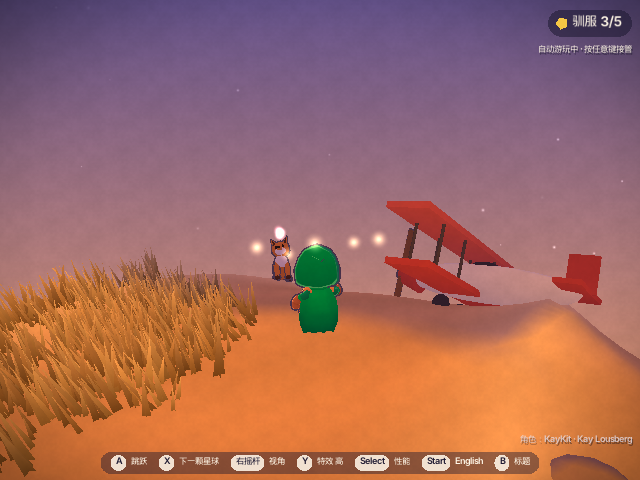
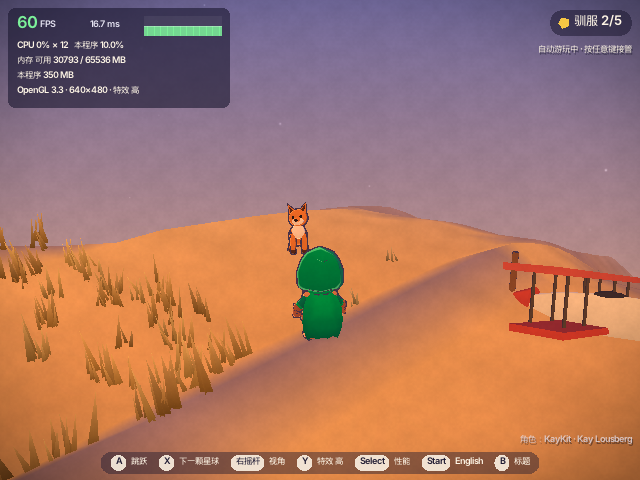
docs: Add the game design and update the README and screenshots for the bigger planets

diff --git a/README.md b/README.md
@@ -1,6 +1,6 @@
 # The Little Prince · 小王子
 
-A 3D game for [Gizlet OS](https://github.com/gizlet/os) handhelds such as the R36S, written in Rust with raylib. A small hooded traveller walks three tiny planets, each lit by its own sun and turning through day, sunset and night, and migrating birds carry it from one planet to the next. It shows what a 1.3 GHz quad-core Cortex-A35 with a Mali-G31 can draw on a 640×480 screen, and grows a little at a time.
+A 3D game for [Gizlet OS](https://github.com/gizlet/os) handhelds such as the R36S, written in Rust with raylib. A small hooded traveller walks three small planets, each lit by its own sun and turning through day, sunset and night, and migrating birds carry it from one planet to the next. It shows what a 1.3 GHz quad-core Cortex-A35 with a Mali-G31 can draw on a 640×480 screen, and grows a little at a time: [docs/design.md](docs/design.md) describes the adventure it is becoming.
 
 ![B612](docs/screenshots/b612.png)
 
@@ -18,9 +18,9 @@ A 3D game for [Gizlet OS](https://github.com/gizlet/os) handhelds such as the R3
 
 | | |
 | --- | --- |
-| B612 | A planet nine units across with rolling hills, a dirt path, 20,000 blades of grass parting around the hero, flowers, bushes, mossy rocks, a baobab, smoking volcanoes, the rose under its glass, clouds and butterflies. Pull up the baobab sprouts. |
-| The lamplighter's planet | A day lasts 14 seconds. The lamplighter lights his lamp at dusk and puts it out at dawn; the HUD counts the sunsets you watch. |
-| The desert | Dunes, a wheat field, a crashed biplane and a fox that comes a little closer each time you stand still. |
+| B612 | A planet 18 units in radius with rolling hills, a dirt path, 30,000 blades of grass parting around the hero, flowers, bushes, mossy rocks, three baobabs, smoking volcanoes, the rose under its glass, clouds and butterflies. Pull up the baobab sprouts. |
+| The lamplighter's planet | The smallest, 15 units in radius, stony and bare, where a day lasts 14 seconds. The lamplighter lights his lamp at dusk and puts it out at dawn; the HUD counts the sunsets you watch. |
+| The desert | Earth, the largest at 25 units in radius: dunes, a wheat field, a crashed biplane and a fox that comes a little closer each time you stand still. |
 | The hero | KayKit's rig with idle, walk, run, jump, landing and cheer, blended into each other and timed to the hero's speed, skinned on the GPU. |
 | The look | Toon lighting with soft shadow colours, ink outlines, a sun that circles each planet, stars and shooting stars, fog, bloom and a paper texture at the high effects level. |
 | The HUD | FPS with a frame-time graph, whole-machine and own CPU use, free and total memory, the app's memory, SoC temperature and CPU clock. |
@@ -63,6 +63,7 @@ Left alone on the title for 12 seconds, it plays by itself (autoplay) and moves 
 | `LITTLEPRINCE_PROFILE=1` | Print the frame time per stage (waiting for the GPU after each) and the triangles drawn, every 3 seconds; `2` prints only the frame time |
 | `LITTLEPRINCE_SKIP=hero,heroink,skin,world,grass,props,flowers,backdrop,sky,alpha,glass,glow,bloom` | Leave parts out, for measuring their cost |
 | `LITTLEPRINCE_FPS=60` | Frame rate cap; `0` leaves the pace to the display |
+| `LITTLEPRINCE_SECONDS=80` | Quit after that many seconds, for scripted runs |
 | `LITTLEPRINCE_CAPTURE=FILE.png` | Render one frame to a PNG and exit; `LITTLEPRINCE_SCENE` is `title`, `b612`, `lamp`, `desert`, `fly`, `model` or `icon`, and `LITTLEPRINCE_AT` the seconds of autoplay before it |
 
 ```sh
@@ -90,17 +91,17 @@ dispatching CI also starts a release.
 
 ### Performance on the R36S
 
-On a genuine R36S (RK3326, Mali-G31 through Panfrost, Mesa 25.0) B612 runs at about 50 fps at the default (mid) effects level, with about 45,000 triangles in about 50 draw calls a frame and about 140 MB of memory. The main thread spends about 14 ms of CPU time per frame, so the GPU sets the pace: its fragment stage is busy about 85% of the time. The high effects level (bloom, paper, the hero's outline) runs at about 36 fps.
+On a genuine R36S (RK3326, Mali-G31 through Panfrost, Mesa 25.0) version 0.2's B612 ran at about 50 fps at the default (mid) effects level, with about 45,000 triangles in about 50 draw calls a frame and about 140 MB of memory; with the bigger planets the desktop draws about as many triangles and draw calls while walking. The main thread spends about 14 ms of CPU time per frame, so the GPU sets the pace: its fragment stage is busy about 85% of the time. The high effects level (bloom, paper, the hero's outline) runs at about 36 fps.
 
 On this GPU every triangle costs fragment time, however few pixels it covers: drawing the hero at a quarter of its size saves only about a third of its cost, and drawing half its triangles saves half. So the hero's outline uses a reduced copy of its mesh (about 1,800 triangles instead of 4,000, merged on a grid over the same skinned vertices), and planet cells more than 3 units from the camera carry every other blade of grass. Swapping the hero's shader for a flat one, mipmapping its texture or discarding depth buffers at the end of each pass made no measurable difference.
 
 The biggest single win was giving raylib's render batch 48 buffers in rotation instead of one (`rlLoadRenderBatch`, set with `LITTLEPRINCE_BATCH`). With one buffer, every batch flush rewrites a vertex buffer the GPU is still reading, and Panfrost makes the CPU wait for the GPU each time: about 25 ms a frame went to those waits, and the game ran at 22 fps. The hero's skinned mesh is double-buffered for the same reason.
 
-Other changes that helped: batching small character parts into a few draw calls, indexed meshes, cheaper small parts and far-away scenery, lighting scenery per vertex without rim light, splitting each planet into 80 cells that hold their ground, scenery, flowers and grass in one mesh each (in full nearby, coarser farther off, ground only beyond), drawn nearest first and only when in front of the camera and above the horizon, skinning the hero on the CPU, drawing straight to the screen below the high effects level, drawing opaque things without blending, the sky after the solids, and a HUD redrawn four times a second and blitted only where it holds something.
+Other changes that helped: batching small character parts into a few draw calls, indexed meshes, cheaper small parts and far-away scenery, lighting scenery per vertex without rim light, splitting each planet into 80 cells that hold their ground, scenery, flowers and grass in one mesh each (in full nearby, coarser farther off, ground only beyond; 320 cells since the planets grew, whose levels share one vertex and one index buffer, and groups of four far-away cells drawn as one), drawn nearest first and only when in front of the camera and above the horizon, skinning the hero on the CPU, drawing straight to the screen below the high effects level, drawing opaque things without blending, the sky after the solids, and a HUD redrawn four times a second and blitted only where it holds something.
 
-`LITTLEPRINCE_PROFILE=2` prints the frame time, the CPU time before the frame is handed over (`cpu`) and the main thread's CPU time (`thread-cpu`); `1` also splits it into stages, waiting for the GPU after each; `3` splits it without waiting. `LITTLEPRINCE_SKIP` leaves parts out to measure their cost; reading the GPU busy time from `/proc/PID/fdinfo` (with `/sys/bus/platform/drivers/panfrost/*/profiling` set to 1) shows what each part costs the GPU.
+`LITTLEPRINCE_PROFILE=2` prints the frame time, the triangles, the peak triangles and draw calls in each three-second window, the CPU time before the frame is handed over (`cpu`) and the main thread's CPU time (`thread-cpu`); `1` also splits it into stages, waiting for the GPU after each; `3` splits it without waiting. `LITTLEPRINCE_SKIP` leaves parts out to measure their cost; reading the GPU busy time from `/proc/PID/fdinfo` (with `/sys/bus/platform/drivers/panfrost/*/profiling` set to 1) shows what each part costs the GPU.
 
-The sky backdrop and the stars are drawn 26–30 units from the camera, well inside the far plane: on the handheld's depth buffer things near the far plane can fail the depth test and the sky flickers black.
+The sky backdrop and the stars are drawn just beyond the farthest ground the camera can see and no nearer than 26 units, well inside the far plane: on the handheld's depth buffer things near the far plane can fail the depth test and the sky flickers black.
 
 Do not pin the GPU clock by hand: setting `min_freq` of `/sys/class/devfreq/ff400000.gpu` to its top frequency made the GPU power domain fail (`failed to get ack on domain 'gpu'`) and the screen went black until a reboot. The default `simple_ondemand` governor already reaches 560 MHz under load.
 
@@ -111,6 +112,7 @@ Do not pin the GPU clock by hand: setting `min_freq` of `/sys/class/devfreq/ff40
 | `gizlet.toml` | The app manifest |
 | `src/main.rs` | The window, the frame loop, captures |
 | `src/app.rs` | Modes, the follow camera, autoplay, flights between planets, effects from footsteps and landings, the render order |
+| `docs/design.md` | The game design and its milestones |
 | `src/world.rs` | The three planets: ground, scenery, the rose, sprouts, volcanoes, the lamplighter, the fox, the biplane, sky and stars |
 | `src/hero.rs` | Loading the KayKit model, animation blending, bone matrices |
 | `src/player.rs` | Walking on a sphere, jumps, the procedural prince used when no model is found |

diff --git a/docs/design.md b/docs/design.md
@@ -1,0 +1,131 @@
+# Design: a short adventure on three planets
+
+The Little Prince started as a walking demo: three small planets, one quiet
+task on each and a flight between them. This document describes where it is
+going: a short adventure that can be played from start to end on a handheld,
+in sittings of five to ten minutes. It adds no new planets; it makes the three
+it has bigger and gives each of them something to do.
+
+## Pillars
+
+- **Patience over speed.** Taming takes time, as in the book: some things are
+  done by sitting down and waiting, not by running at them.
+- **Nothing dies.** Troubles grow if they are left alone, but they never end
+  the game. Touching one knocks the traveller back and spills a little
+  stardust.
+- **Every planet is a short story.** Each has a conversation, a main task and
+  its own kind of trouble, and remembers what was done there.
+- **The handheld sets the budget.** New content may not cost more to draw than
+  version 0.2 did on the R36S (see [Budget](#budget)).
+
+## The planets
+
+| Planet | Radius | Day | Main task | Trouble |
+| --- | --- | --- | --- | --- |
+| The lamplighter's | 15 | 14 s | Keep the night watch: light the small lamps before dusk and keep them lit until dawn | Snuffer moths that put lamps out after dark |
+| B612 | 18 | 240 s | Keep the planet: pull up baobab sprouts before they spread, keep caterpillars from the rose, sweep the volcanoes | Spreading sprouts, caterpillars, volcanoes that spit cinders when neglected |
+| The desert on Earth | 25 | 200 s | Find the aviator's lost parts between sandstorms and tame the fox, who then follows the traveller | Sandstorms that hide the way and push the traveller off course; a snake to keep away from |
+
+The radii follow the book's order: the lamplighter's planet is the smallest,
+Earth by far the largest. A day is the time the sun takes to circle a planet;
+it does not depend on the radius, so the lamplighter's day still lasts 14
+seconds on a planet ten times as wide as before.
+
+Layouts are written in world units, not angles, so the distances between
+things stay walkable when a radius changes. Scenery is densest along paths and
+round landmarks and thins out over open ground, which keeps the far side of a
+planet cheap to draw.
+
+## Structure
+
+1. **Star map.** X opens a map of the three planets joined by the migrating
+   birds' routes. Planets already visited can be revisited at any time; a new
+   route opens when the previous planet's main task is done
+   (B612, then the lamplighter's planet, then the desert).
+2. **Arrival, conversation, task.** Each planet has a character to talk to
+   (the rose, the lamplighter, the fox and the aviator) and a main task. Side
+   goals give stardust and achievements.
+3. **Ending.** With all three tasks done the birds carry the traveller home to
+   B612 for a gentle ending: the rose, a sunset, and the aviator looking up at
+   the stars on Earth. Afterwards the game continues in free play.
+
+## Travellers
+
+Four playable travellers from KayKit Adventurers 1.0 (CC0), each wearing the
+prince's scarf. Every planet can be finished with any of them; each is better
+at one kind of trouble.
+
+| Traveller | Strength |
+| --- | --- |
+| Hooded rogue | Fast, and moves without startling animals |
+| Knight | A shield against volcano cinders; pushes rocks aside |
+| Mage | A light that drives off snuffer moths |
+| Barbarian | Jumps high; landing stuns small troubles nearby |
+
+## Saves and records
+
+- Three save slots in `GIZLET_SAVE_DIR` (`./save` on the desktop), plain text
+  lines with a version number, written to a temporary file and renamed into
+  place. Unknown lines are kept out of the way so newer saves still load.
+- Saves happen on arrival, when a task is done, when the menu opens and on
+  quitting. Settings (language, effects level, camera, volume, A/B swap) are a
+  separate file shared by all slots.
+- A journal kept like the geographer's book: planets, characters and things
+  seen, statistics (sunsets watched, sprouts pulled, distance walked, play
+  time) and about twenty achievements.
+
+## Controls
+
+| Button | Play | Menus |
+| --- | --- | --- |
+| D-pad / stick | Walk | Move |
+| A | Jump; talk or act when something is near | Choose |
+| B | Hold to sit and wait | Back |
+| X | Star map | |
+| Y | Swap traveller | |
+| Start | Pause menu | |
+| Select | Journal | |
+
+## Budget
+
+On a genuine R36S version 0.2 runs at about 50 fps with about 45,000
+triangles in about 50 draw calls a frame on B612. Desktop measurements stand in
+for the handheld while developing: `LITTLEPRINCE_PROFILE=2` prints the average
+triangles a frame and the peak triangles and draw calls in each three-second
+window. Walking on any planet should stay within version 0.2's numbers.
+Memory is not a budget, but less is better.
+
+To afford planets four to eight times the area:
+
+- Each planet is split into 320 cells. A cell's four levels of detail share
+  one vertex buffer and one index buffer: the far level is the ground, the
+  near level adds the scenery, flowers and every other blade of grass, the
+  close level the rest of the grass; the middle level adds coarse scenery with
+  its own index list.
+- Four neighbouring cells that are all far away are drawn as one mesh, so a
+  view from high above does not cost one draw call per cell.
+- The sky backdrop and stars are drawn just beyond the farthest ground the
+  camera can see, and no nearer than 26 units, so they never cover the planet
+  while keeping the 16-bit depth buffer precise.
+
+## Milestones
+
+| # | Content |
+| --- | --- |
+| M1 | This document; bigger planets |
+| M2 | Saves, settings, pause menu, controls, statistics |
+| M3 | Star map, conversations, interaction, tasks |
+| M4 | Troubles and stardust; B612's task |
+| M5 | Four travellers |
+| M6 | The lamplighter's and the desert's tasks |
+| M7 | Journal, achievements, ending, free play, texts and documentation |
+
+Each milestone is a pull request; `LITTLEPRINCE_SCRIPT` (added with the first
+task) replays button presses to finish a planet's task and the whole story,
+and runs as a test.
+
+## Not planned
+
+- New planets (the king, the vain man, the businessman, the geographer).
+- Combat, health or failure.
+- Quoting translations of the book; texts are written afresh.
